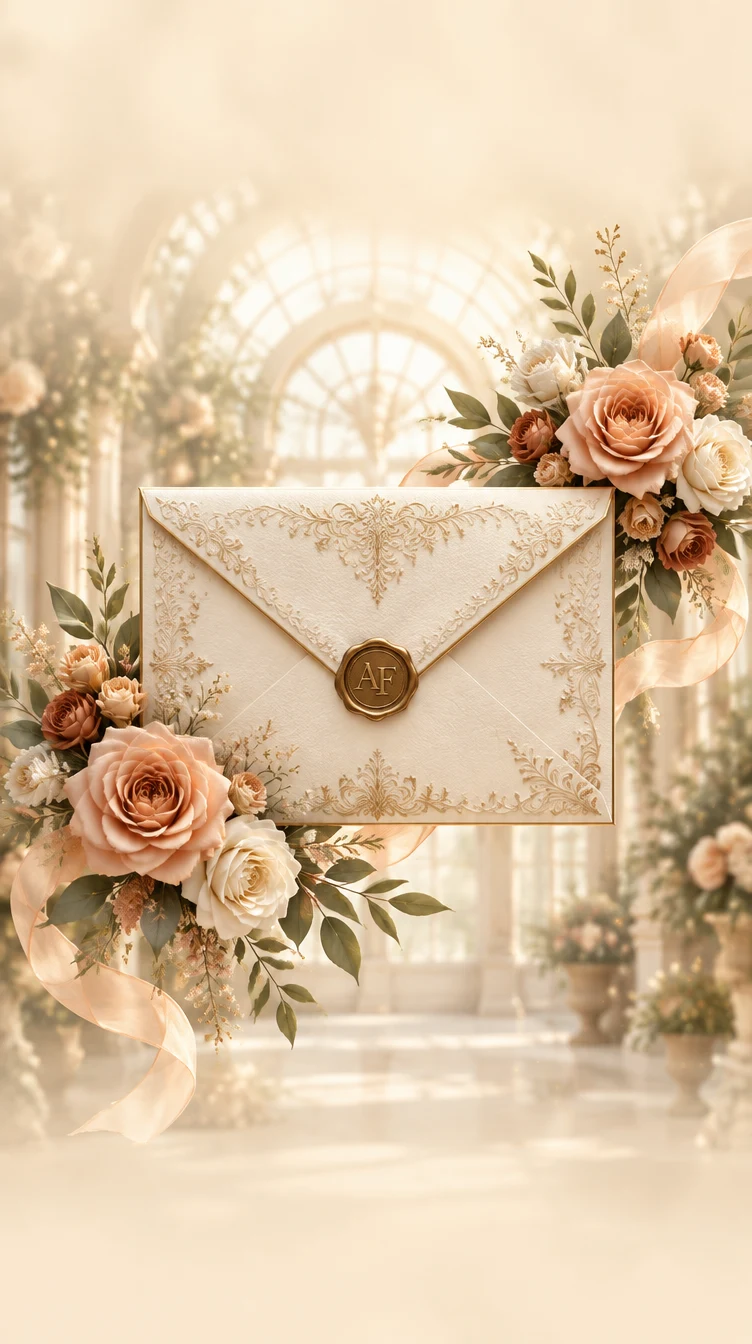
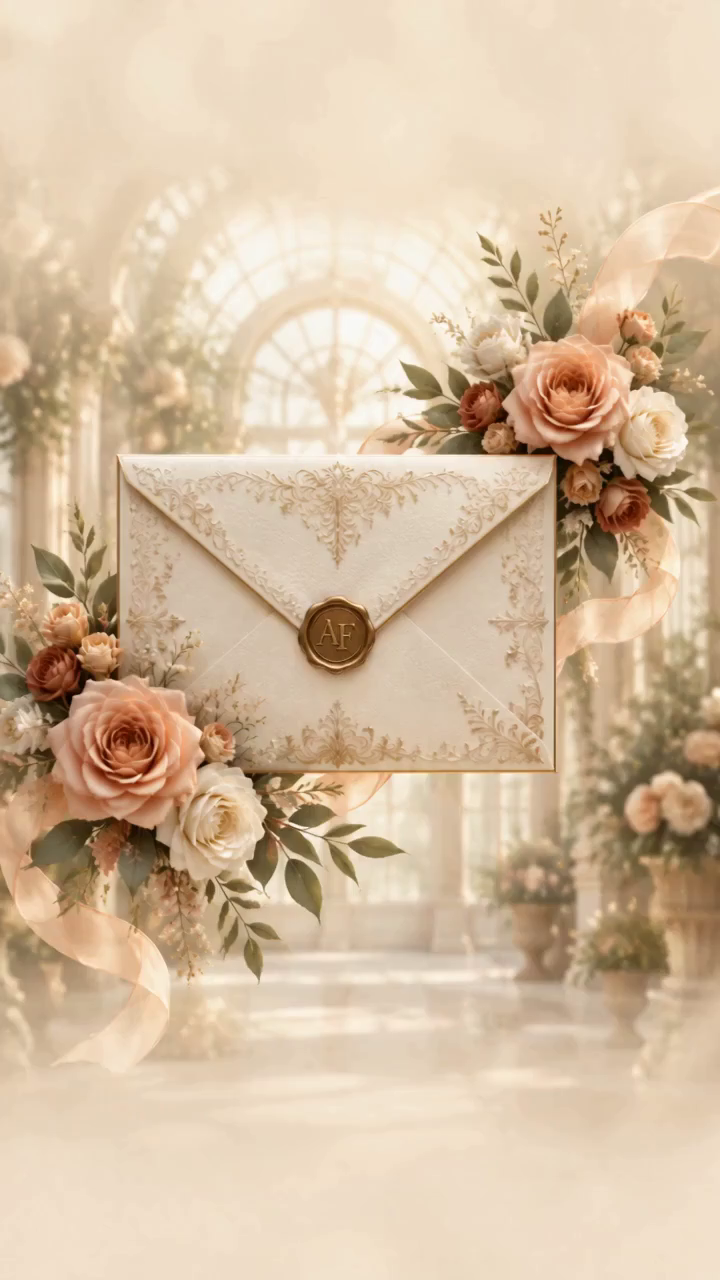
fix(invitaciones): smooth Alina intro and add falling flowers

diff --git a/public/mis-xv-alina-fernanda/assets/invitation.css b/public/mis-xv-alina-fernanda/assets/invitation.css
@@ -434,6 +434,35 @@ body.invitation-open .hero-date { animation: text-arrive .75s cubic-bezier(.22, 
 .effects-ready .photo-motion:nth-child(2).has-entered { animation-delay: .1s; }
 .effects-ready .photo-motion:nth-child(3).has-entered { animation-delay: .2s; }
 body.motion-paused *, body.motion-paused *::before, body.motion-paused *::after, body.page-hidden *, body.page-hidden *::before, body.page-hidden *::after { animation-play-state: paused !important; }
+/* A few peach petals and golden glints float around the stationery. */
+.ambient-magic { position: fixed; inset: 0; z-index: 8; overflow: hidden; pointer-events: none; user-select: none; contain: strict; visibility: hidden; }
+.invitation-open .ambient-magic { visibility: visible; }
+.falling-petal, .falling-blossom { position: absolute; top: 0; left: var(--x); width: 14px; height: 21px; opacity: 0; animation: petal-fall var(--duration) linear var(--delay) infinite; animation-play-state: paused; }
+.falling-petal { border-radius: 85% 15% 75% 25%; background: radial-gradient(ellipse at 30% 25%, #f8dec9, #dca286 78%); box-shadow: inset -1px -1px 2px #b4784a20; }
+.falling-blossom { width: 23px; height: 23px; }
+.magic-sparkle { position: absolute; left: var(--x); top: var(--y); width: 12px; height: 12px; background: radial-gradient(circle, #fff5dc 8%, #b89756 42%, #b8975600 74%); clip-path: polygon(50% 0, 61% 39%, 100% 50%, 61% 61%, 50% 100%, 39% 61%, 0 50%, 39% 39%); opacity: 0; animation: magic-glimmer var(--duration) ease-in-out var(--delay) infinite; animation-play-state: paused; }
+.invitation-open .ambient-magic > * { animation-play-state: running; }
+@keyframes petal-fall {
+  0% { opacity: 0; transform: translate3d(0, -35px, 0) rotate(0); }
+  15% { opacity: .5; transform: translate3d(var(--drift), 15svh, 0) rotate(55deg); }
+  50% { opacity: .42; transform: translate3d(0, 50svh, 0) rotate(165deg); }
+  85% { opacity: .5; transform: translate3d(var(--drift), 85svh, 0) rotate(280deg); }
+  100% { opacity: 0; transform: translate3d(0, calc(100svh + 35px), 0) rotate(360deg); }
+}
+@keyframes magic-glimmer {
+  0%, 28%, 72%, 100% { opacity: 0; transform: scale(.55) rotate(0); }
+  48% { opacity: .62; transform: scale(1) rotate(12deg); }
+  58% { opacity: .22; transform: scale(.8) rotate(18deg); }
+}
+@media (max-width: 520px) {
+  .falling-petal { width: 10px; height: 16px; }
+  .falling-blossom { width: 19px; height: 19px; }
+  .magic-sparkle { width: 10px; height: 10px; }
+  .falling-petal:nth-child(3), .falling-petal:nth-child(4) { display: none; }
+}
+@media (prefers-reduced-motion: reduce), print {
+  .ambient-magic { display: none; }
+}
 body.motion-paused .floral-art { opacity: var(--floral-opacity, 1) !important; animation: none !important; }
 body.motion-paused .text-motion, body.motion-paused .text-motion.waiting-entry, body.motion-paused .photo-motion, body.motion-paused .hero h1 span, body.motion-paused .hero-message, body.motion-paused .hero-date { opacity: 1 !important; transform: none !important; animation: none !important; transition: none !important; }
 @keyframes floral-arrive { from { opacity: 0; } to { opacity: var(--floral-opacity, 1); } }
@@ -552,7 +581,8 @@ body.motion-paused .text-motion, body.motion-paused .text-motion.waiting-entry, 
 .gate-cinema { position: absolute; inset: 0; z-index: 0; opacity: 0; pointer-events: none; overflow: hidden; background: #faecd7; transition: opacity .35s ease; }
 .gate-cinema::before { content: ''; position: absolute; inset: -35px; background: #faecd7 url('sobre-princesa-poster.webp') center / cover no-repeat; filter: blur(30px); opacity: .46; }
 .intro-poster, .intro-video { position: absolute; inset: 0; display: block; width: 100%; height: 100%; max-width: none; object-fit: contain; object-position: center; }
-.intro-video { opacity: 0; transition: opacity .22s ease; }
+/* The poster is the video's first frame, so a direct swap avoids a double image. */
+.intro-video { opacity: 0; }
 .gate-heading, .gate-hint, .gate-date { position: relative; z-index: 4; }
 .envelope-gate.has-cinematic-poster { background: #faecd7; overflow: hidden; }
 .has-cinematic-poster .gate-cinema { opacity: 1; }

diff --git a/public/mis-xv-alina-fernanda/index.html b/public/mis-xv-alina-fernanda/index.html
@@ -42,7 +42,7 @@
 
   <div id="envelope-gate" class="envelope-gate" role="dialog" aria-modal="true" aria-labelledby="gate-name" aria-describedby="gate-hint" hidden>
     <div class="gate-cinema" aria-hidden="true">
-      <img id="intro-poster" class="intro-poster" src="assets/sobre-princesa-poster.webp" alt="" width="752" height="1344" fetchpriority="high">
+      <img id="intro-poster" class="intro-poster" src="assets/sobre-princesa-poster.webp" alt="" width="720" height="1280" fetchpriority="high">
       <video id="intro-video" class="intro-video" data-src="assets/apertura-sobre.mp4" preload="none" muted playsinline tabindex="-1" disablepictureinpicture></video>
     </div>
     <div class="gate-heading">
@@ -68,6 +68,22 @@
   </div>
 
   <div id="invitation-content">
+    <div class="ambient-magic" aria-hidden="true">
+      <span class="falling-petal" style="--x: 5%; --drift: 19px; --duration: 17s; --delay: -8s"></span>
+      <span class="falling-petal" style="--x: 16%; --drift: -16px; --duration: 21s; --delay: -3s"></span>
+      <span class="falling-petal" style="--x: 29%; --drift: 22px; --duration: 19s; --delay: -12s"></span>
+      <span class="falling-petal" style="--x: 75%; --drift: -20px; --duration: 23s; --delay: -6s"></span>
+      <span class="falling-petal" style="--x: 87%; --drift: 15px; --duration: 18s; --delay: -14s"></span>
+      <span class="falling-petal" style="--x: 95%; --drift: -18px; --duration: 20s; --delay: -4s"></span>
+      <svg class="falling-blossom" style="--x: 10%; --drift: 23px; --duration: 24s; --delay: -16s" viewBox="0 0 40 40"><g fill="#e9b99f"><ellipse cx="20" cy="11" rx="5" ry="9"/><ellipse cx="20" cy="11" rx="5" ry="9" transform="rotate(72 20 20)"/><ellipse cx="20" cy="11" rx="5" ry="9" transform="rotate(144 20 20)"/><ellipse cx="20" cy="11" rx="5" ry="9" transform="rotate(216 20 20)"/><ellipse cx="20" cy="11" rx="5" ry="9" transform="rotate(288 20 20)"/></g><circle cx="20" cy="20" r="4" fill="#b99759"/></svg>
+      <svg class="falling-blossom" style="--x: 91%; --drift: -25px; --duration: 26s; --delay: -7s" viewBox="0 0 40 40"><g fill="#e9b99f"><ellipse cx="20" cy="11" rx="5" ry="9"/><ellipse cx="20" cy="11" rx="5" ry="9" transform="rotate(72 20 20)"/><ellipse cx="20" cy="11" rx="5" ry="9" transform="rotate(144 20 20)"/><ellipse cx="20" cy="11" rx="5" ry="9" transform="rotate(216 20 20)"/><ellipse cx="20" cy="11" rx="5" ry="9" transform="rotate(288 20 20)"/></g><circle cx="20" cy="20" r="4" fill="#b99759"/></svg>
+      <span class="magic-sparkle" style="--x: 8%; --y: 22%; --duration: 6s; --delay: -2s"></span>
+      <span class="magic-sparkle" style="--x: 23%; --y: 67%; --duration: 8s; --delay: -5s"></span>
+      <span class="magic-sparkle" style="--x: 33%; --y: 12%; --duration: 7s; --delay: -3s"></span>
+      <span class="magic-sparkle" style="--x: 70%; --y: 83%; --duration: 9s; --delay: -6s"></span>
+      <span class="magic-sparkle" style="--x: 83%; --y: 39%; --duration: 7s; --delay: -1s"></span>
+      <span class="magic-sparkle" style="--x: 94%; --y: 73%; --duration: 8s; --delay: -4s"></span>
+    </div>
     <div id="reading-progress" class="reading-progress" aria-hidden="true"></div>
     <a class="skip-link" href="#name">Saltar a la invitación</a>
     <header class="masthead">

diff --git a/public/mis-xv-alina-fernanda/assets/invitation.js b/public/mis-xv-alina-fernanda/assets/invitation.js
@@ -286,6 +286,8 @@
     introVideo.playsInline = true;
     // No video src or preload is set until this explicit guest gesture.
     introVideo.src = videoSource;
+    introVideo.defaultPlaybackRate = 1.3;
+    introVideo.playbackRate = 1.3;
     introLoadTimer = setTimeout(() => finishIntro({ fallback: true }), 3500);
     try {
       Promise.resolve(introVideo.play()).catch(() => finishIntro({ fallback: true }));
